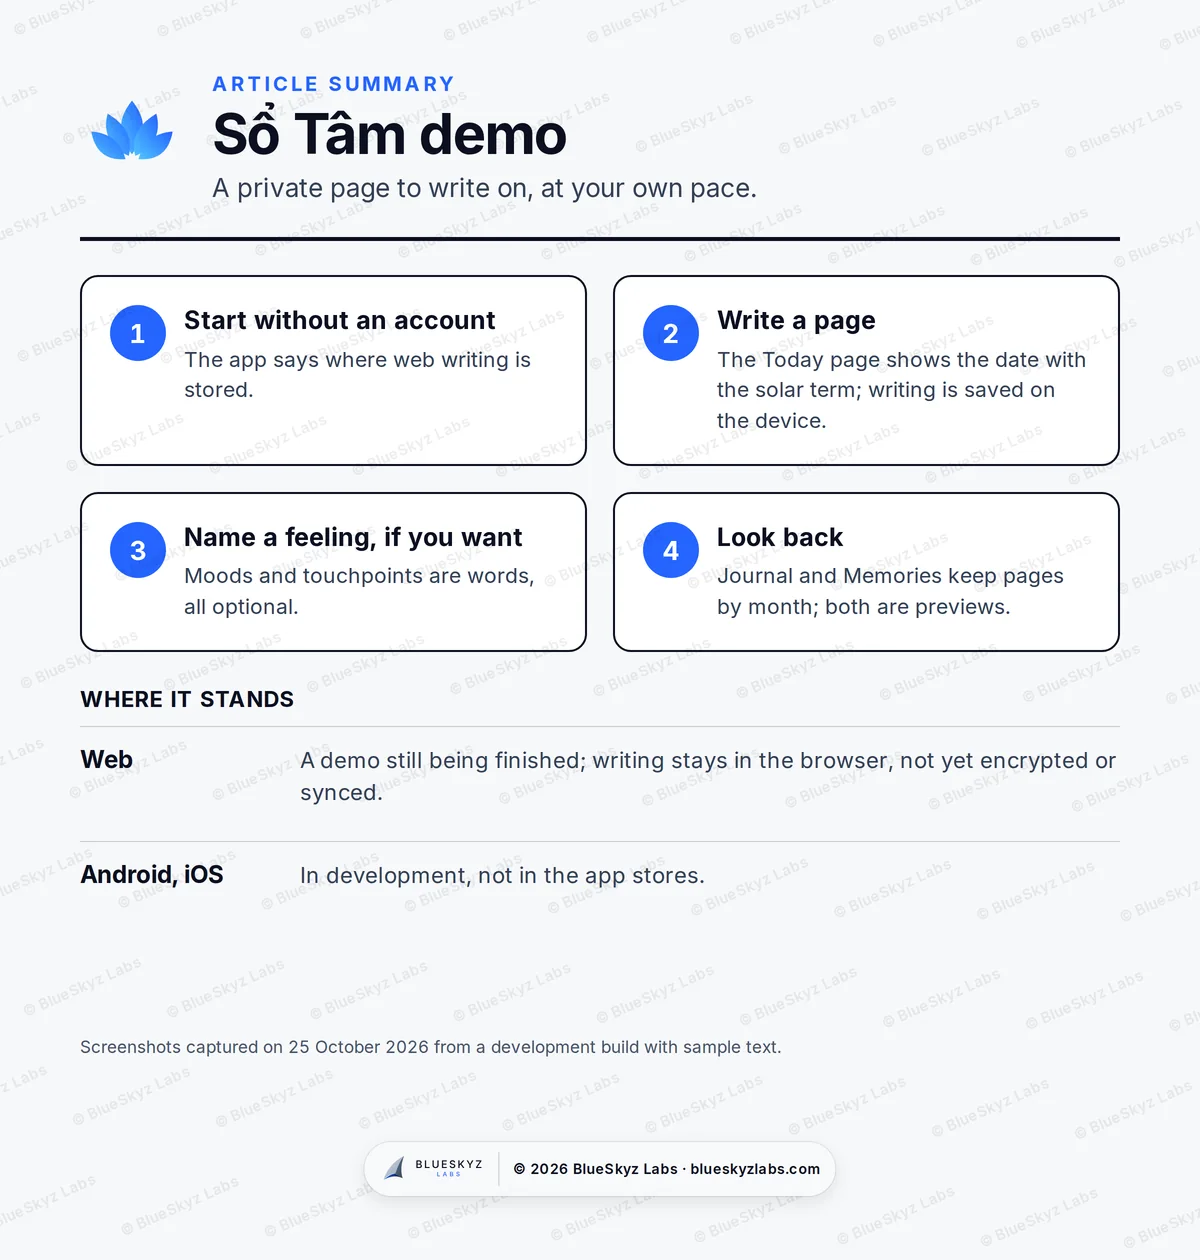
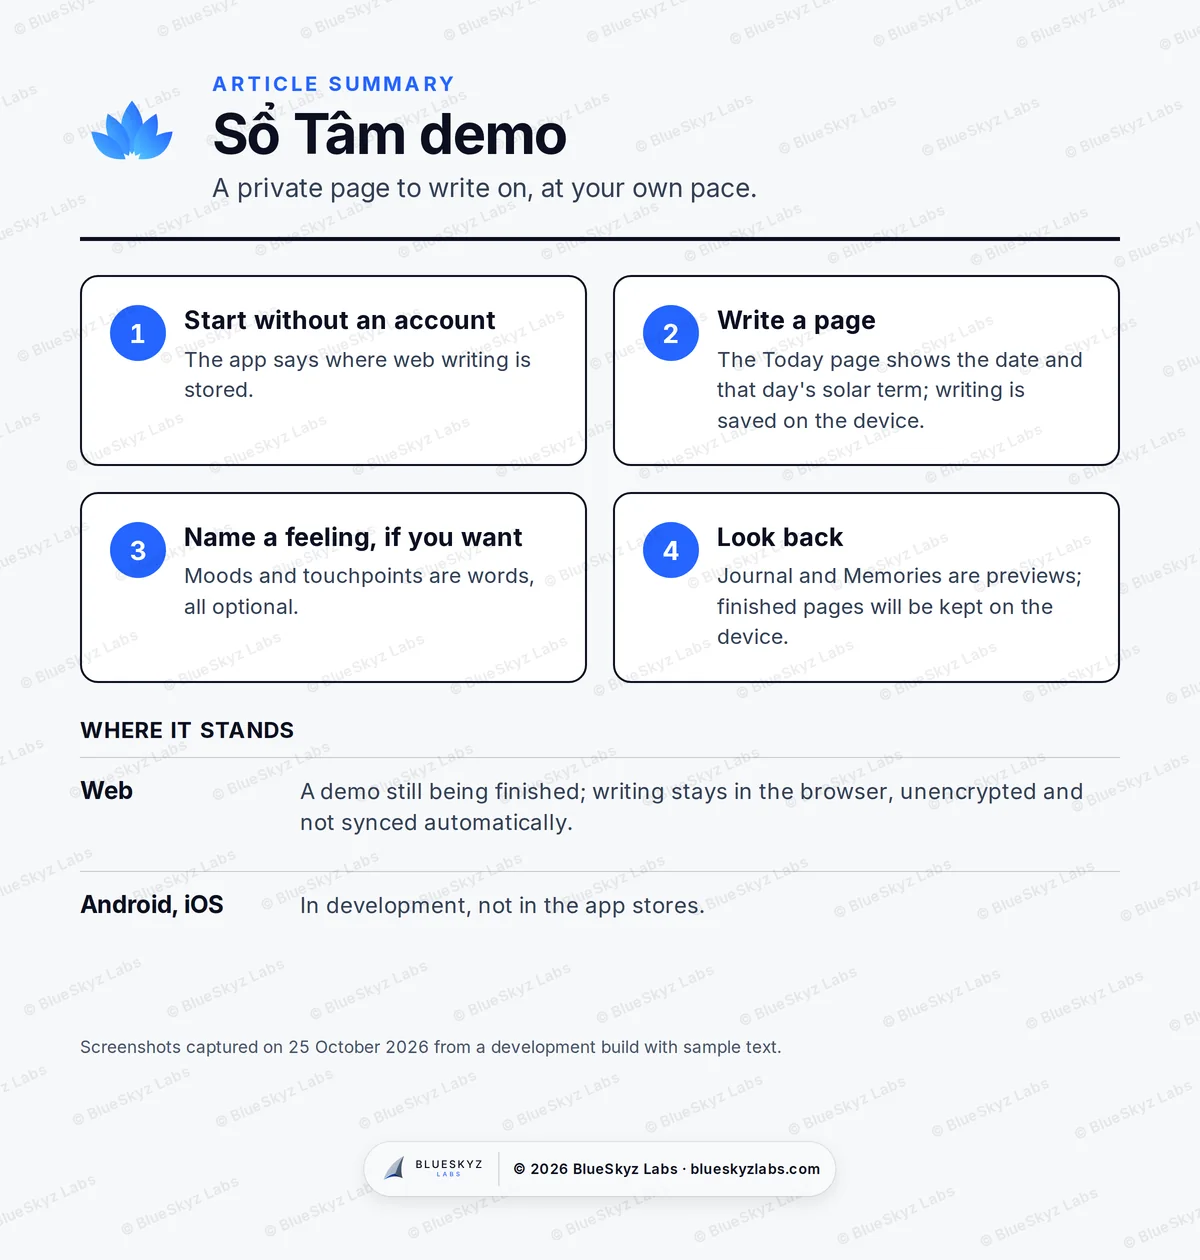
fix(journal): align so-tam-ban-demo infographic copy with copy review
Update infographic points 2 and 4 and the web status row (vi + en), re-render
art, and include the post files as they stand on disk.

Claude-Session: https://claude.ai/code/session_01SCqxvNgLgL6f3GWTLYLZNu

diff --git a/src/content/journal/so-tam-ban-demo.vi.md b/src/content/journal/so-tam-ban-demo.vi.md
@@ -3,7 +3,7 @@ id: so-tam-ban-demo
 lang: vi
 branch: news
 title: "Sổ Tâm, bản demo: một trang viết riêng, theo nhịp của bạn"
-description: "Bản demo đang hoàn thiện: Sổ Tâm là cuốn nhật ký riêng tư để viết, nhìn lại và lưu giữ điều có ý nghĩa. Tình huống minh họa qua màn hình thật."
+description: "Bản demo, đang trong giai đoạn hoàn thiện: Sổ Tâm là cuốn nhật ký riêng tư để viết, nhìn lại và lưu giữ điều có ý nghĩa. Tình huống minh họa."
 datePublished: "2026-10-25"
 author: tony-nguyen
 aiAssisted: true
@@ -16,38 +16,38 @@ hero:
   caption: "Ảnh màn hình chụp ngày 25/10/2026 từ bản đang phát triển, dùng nội dung mẫu. Bản demo, đang trong giai đoạn hoàn thiện."
 infographic:
   src: /images/journal/so-tam-ban-demo/infographic.vi.webp
-  alt: "Infographic tóm tắt: Sổ Tâm qua bốn bước (bắt đầu không cần tài khoản, viết một trang, gọi tên cảm xúc nếu muốn, nhìn lại) và hiện trạng: bản demo trên web lưu trong trình duyệt, chưa mã hóa; Android và iOS đang phát triển."
+  alt: "Infographic tóm tắt: Sổ Tâm qua bốn bước (bắt đầu không cần tài khoản, viết một trang, gọi tên cảm xúc nếu muốn, nhìn lại) và hiện trạng: bản demo trên web lưu trong trình duyệt, không mã hóa; Android và iOS đang phát triển."
 draft: false
 ---
 
-Sổ Tâm là sản phẩm của BlueSkyz Labs: một cuốn nhật ký riêng tư để viết ra suy nghĩ, nhìn lại và giữ những điều có ý nghĩa. Mục tiêu của dự án là một nơi viết yên tĩnh, không có nhịp độ nào phải theo, không có điều gì bắt buộc phải làm. Đây là bản demo, đang trong giai đoạn hoàn thiện. Bài này đi qua các màn hình thật của bản đang phát triển, chụp ngày 25/10/2026.
+Sổ Tâm là sản phẩm của BlueSkyz Labs: một cuốn nhật ký riêng tư để viết ra suy nghĩ, nhìn lại và giữ những điều có ý nghĩa. Mục tiêu của dự án là một nơi để lưu lại điều có ý nghĩa: không có nhịp độ nào phải theo, không có điều gì bạn phải làm. Đây là bản demo, đang trong giai đoạn hoàn thiện. Bài này đi qua các màn hình thật của bản đang phát triển, chụp ngày 25/10/2026.
 
-## Một tối Chủ nhật (tình huống minh họa)
+## Một ngày Chủ Nhật (tình huống minh họa)
 
-Tình huống dưới đây dùng nội dung mẫu để giới thiệu cách sản phẩm vận hành. Nhân vật không phải người dùng thật.
+Tình huống dưới đây dùng nội dung mẫu để minh họa những gì hiện ra trên màn hình. Nhân vật không phải người dùng thật.
 
-**Bắt đầu.** Một người mở Sổ Tâm trên trình duyệt điện thoại lần đầu. Thẻ chào mừng viết "Giữ điều có ý nghĩa." và nói rõ: không cần tài khoản, bản viết trên web lưu trong trình duyệt này, không mã hóa và không đồng bộ. Họ chạm **Bắt đầu**.
+**Bắt đầu.** Một người mở Sổ Tâm trên trình duyệt điện thoại lần đầu. Thẻ chào mừng viết "Giữ điều có ý nghĩa." và nói rõ: không cần tài khoản, bản viết trên web lưu trong trình duyệt này, không mã hóa và không tự đồng bộ. Người ấy chạm **Bắt đầu**.
 
-**Viết một trang.** Trang **Hôm nay** ghi ngày "Chủ Nhật, 25 tháng 10" kèm tiết khí trong năm, hôm ấy là Tiết Sương Giáng. Họ viết vài dòng vào khung viết. Bên dưới hiện nhãn **Đã lưu trên thiết bị** và số từ đã viết.
+**Viết một trang.** Trang **Hôm nay** ghi ngày "Chủ Nhật, 25 tháng 10" kèm tiết khí của ngày, hôm ấy là Tiết Sương Giáng. Người ấy viết vài dòng vào khung viết. Bên dưới hiện nhãn **Đã lưu trên thiết bị** và số từ đã viết.
 
-**Gọi tên cảm xúc, nếu muốn.** Câu hỏi "Hôm nay bạn thế nào?" ghi rõ là không bắt buộc. Tâm trạng là những từ như Nặng lòng, Xao động, Khó gọi tên, Yên, Nhẹ lòng; lần này họ chọn "Nhẹ lòng". Phần **Điểm chạm** cũng là chữ, mỗi từ có một dấu mực nhỏ: Gia đình, Công việc, Thân tâm, Tri ân, Niềm tin, Đất trời, Nghỉ ngơi. Họ chọn "Tri ân".
+**Gọi tên cảm xúc, nếu muốn.** Câu hỏi "Hôm nay bạn thế nào?" ghi rõ là không bắt buộc. Tâm trạng là những từ như Nặng lòng, Xao động, Khó gọi tên, Yên, Nhẹ lòng; lần này người ấy chọn "Nhẹ lòng". Phần **Điểm chạm** cũng chỉ là những từ, mỗi từ kèm một biểu tượng nhỏ: Gia đình, Công việc, Thân tâm, Tri ân, Niềm tin, Đất trời, Nghỉ ngơi. Người ấy chọn "Tri ân".
 
-**Nhìn lại.** Tab **Ghi chép** hiện bài đang viết dở với liên kết "tiếp →". Tab **Ký ức** còn trống, với một vòng tròn nét cọ và lời nhắn: những trang đã hoàn tất sẽ được giữ trong Ghi chép, xếp theo tháng, trên thiết bị này. Cả hai tab được ứng dụng gắn nhãn xem trước.
+**Nhìn lại.** Tab **Ghi chép** hiện bài đang viết dở với liên kết "tiếp →". Tab **Ký ức** còn trống, với một vòng tròn nét cọ và lời nhắn: những trang đã hoàn tất sẽ được giữ trong Ghi chép, xếp theo tháng, trên thiết bị này. Ứng dụng gắn nhãn "Xem trước" cho cả hai tab.
 
 **Tiếng chuông.** Trong **Cài đặt**, tiếng chuông chánh niệm đang bật. Ứng dụng ghi rõ chuông được tạo hoàn toàn trên trình duyệt, không tải tệp và không gửi gì lên mạng.
 
 ## Điểm nổi bật
 
 - **Không cần tài khoản để bắt đầu.** Mở ra là viết được; ứng dụng nói rõ bản viết trên web được lưu ở đâu.
-- **Mọi lựa chọn đều không bắt buộc.** Không có nhịp độ phải theo; tâm trạng và điểm chạm chỉ chọn khi muốn.
-- **Cảm xúc bằng chữ.** Tâm trạng và điểm chạm là từ ngữ, không phải thang điểm.
-- **Lịch theo tiết khí.** Trang Hôm nay ghi ngày kèm tiết khí trong năm.
-- **Tiếng chuông không gửi gì lên mạng.** Chuông được tạo ngay trên trình duyệt.
+- **Không có điều gì bạn phải làm.** Câu hỏi tâm trạng ghi rõ là không bắt buộc, và không có nhịp độ nào phải theo.
+- **Cảm xúc bằng chữ.** Tâm trạng và điểm chạm là những từ ngữ gần gũi.
+- **Ngày kèm tiết khí.** Trang Hôm nay ghi ngày và tiết khí của hôm đó.
+- **Tiếng chuông tạo ngay trên trình duyệt.** Ứng dụng ghi rõ chuông không tải tệp và không gửi gì lên mạng.
 
 ## Hiện trạng
 
 - Sổ Tâm đang được phát triển. Bản web là bản demo, đang trong giai đoạn hoàn thiện.
-- Trên web, bản viết lưu trong trình duyệt, chưa mã hóa và chưa đồng bộ. Ghi chép và Ký ức đang ở dạng xem trước.
+- Trên web, bản viết lưu trong trình duyệt, không mã hóa và không tự đồng bộ. Ghi chép và Ký ức đang ở dạng xem trước.
 - Ứng dụng Android và iOS đang được phát triển, chưa có trên cửa hàng ứng dụng.
 - Ảnh màn hình được chụp ngày 25/10/2026 từ bản đang phát triển, dùng nội dung mẫu, không phải nhật ký thật của ai.
 

diff --git a/src/content/journal/so-tam-ban-demo.en.md b/src/content/journal/so-tam-ban-demo.en.md
@@ -3,7 +3,7 @@ id: so-tam-ban-demo
 lang: en
 branch: news
 title: "Sổ Tâm demo: a private page to write on, at your own pace"
-description: "A demo still being finished: Sổ Tâm is a private journal for writing, looking back and keeping what matters. An illustrative scenario through real screens."
+description: "A demo, still being finished: Sổ Tâm is a private journal for writing, looking back and keeping what matters. An illustrative scenario."
 datePublished: "2026-10-25"
 author: tony-nguyen
 aiAssisted: true
@@ -16,38 +16,38 @@ hero:
   caption: "Screenshots captured on 25 October 2026 from a development build with sample text. A demo, still being finished."
 infographic:
   src: /images/journal/so-tam-ban-demo/infographic.en.webp
-  alt: "Summary infographic: Sổ Tâm in four steps (start without an account, write a page, name a feeling if you want, look back) and where it stands: a web demo stored in the browser, not yet encrypted; Android and iOS in development."
+  alt: "Summary infographic: Sổ Tâm in four steps (start without an account, write a page, name a feeling if you want, look back) and where it stands: a web demo stored in the browser, unencrypted; Android and iOS in development."
 draft: false
 ---
 
-Sổ Tâm is a BlueSkyz Labs product: a private journal for writing down your thoughts, looking back and keeping what matters. The project's goal is a quiet place to write, with no pace to keep up with and nothing you have to do. This is a demo, still being finished. This post walks through real screens of the development build, captured on 25 October 2026.
+Sổ Tâm is a BlueSkyz Labs product: a private journal for writing down your thoughts, looking back and keeping what matters. The project's goal is a place to keep what matters, with no pace to keep up with and nothing you have to do. This is a demo, still being finished. This post walks through real screens of the development build, captured on 25 October 2026.
 
-## A Sunday evening (an illustrative scenario)
+## A Sunday (an illustrative scenario)
 
-The scenario below uses sample text to show how the product works. The person in it is not a real user.
+The scenario below uses sample text to illustrate what the screens show. The person in it is not a real user.
 
-**Starting.** Someone opens Sổ Tâm in their phone's browser for the first time. The welcome card reads "Giữ điều có ý nghĩa." (keep what matters) and says plainly that no account is needed, and that on the web the writing stays in this browser, unencrypted and not synced. They tap **Bắt đầu** (start).
+**Starting.** Someone opens Sổ Tâm in their phone's browser for the first time. The welcome card reads "Giữ điều có ý nghĩa." (keep what matters) and says plainly that no account is needed, and that on the web the writing stays in this browser, unencrypted and does not sync by itself. They tap **Bắt đầu** (start).
 
-**Writing a page.** The **Today** page shows the date, "Chủ Nhật, 25 tháng 10" (Sunday, 25 October), with the solar term of the year: that day falls in Sương Giáng (frost's descent). They write a few lines in the writing area. Below it, **Đã lưu trên thiết bị** (saved on this device) appears with a word count.
+**Writing a page.** The **Hôm nay** (Today) page shows the date, "Chủ Nhật, 25 tháng 10" (Sunday, 25 October), with that day's solar term: that day falls in Sương Giáng (frost's descent). They write a few lines in the writing area. Below it, **Đã lưu trên thiết bị** (saved on this device) appears with a word count.
 
-**Naming a feeling, if they want.** The question "Hôm nay bạn thế nào?" (how are you today?) is marked optional. Moods are words such as Nặng lòng (heavy-hearted), Xao động (unsettled), Khó gọi tên (hard to name), Yên (calm) and Nhẹ lòng (light-hearted); this time they pick "Nhẹ lòng". The **touchpoints** are words too, each with a small ink mark: family, work, body and mind, gratitude, faith, nature and rest. They pick "Tri ân" (gratitude).
+**Naming a feeling, if they want.** The question "Hôm nay bạn thế nào?" (how are you today?) is marked optional. Moods are words such as Nặng lòng (heavy-hearted), Xao động (unsettled), Khó gọi tên (hard to name), Yên (calm) and Nhẹ lòng (light-hearted); this time they pick "Nhẹ lòng". The **Điểm chạm** (touchpoints) are words too, each with a small icon: family, work, body and mind, gratitude, belief, earth and sky, and rest. They pick "Tri ân" (gratitude).
 
-**Looking back.** The **Journal** tab shows the unfinished draft with a "tiếp →" (continue) link. The **Memories** tab is still empty, with a brush-stroke circle and a note that finished pages will be kept in the Journal, by month, on this device. The app labels both tabs as previews.
+**Looking back.** The **Ghi chép** (Journal) tab shows the unfinished draft with a "tiếp →" (continue) link. The **Ký ức** (Memories) tab is still empty, with a brush-stroke circle and a note that finished pages will be kept in the Journal, by month, on this device. The app labels both tabs as previews.
 
-**The bell.** In **Settings**, the mindful bell is on. The app states that the bell is generated entirely in the browser, downloads no file and sends nothing over the network.
+**The bell.** In **Cài đặt** (Settings), the mindful bell is on. The app states that the bell is generated entirely in the browser, downloads no file and sends nothing over the network.
 
 ## Highlights
 
 - **No account to start.** Open it and write; the app says where web writing is stored.
-- **Every choice is optional.** There is no pace to keep up with; mood and touchpoints are there only if you want them.
-- **Feelings in words.** Moods and touchpoints are words, not a score.
-- **A calendar with solar terms.** The Today page shows the date with the solar term of the year.
-- **A bell that sends nothing.** The bell is generated in the browser.
+- **Nothing you have to do.** The mood question is marked optional, and there is no pace to keep up with.
+- **Feelings in words.** Moods and touchpoints are everyday words.
+- **The date with its solar term.** The Today page shows the date and that day's solar term.
+- **A bell made in the browser.** The app states it downloads no file and sends nothing over the network.
 
 ## Where it stands
 
 - Sổ Tâm is in development. The web version is a demo, still being finished.
-- On the web, writing is stored in the browser, not yet encrypted or synced. Journal and Memories are previews.
+- On the web, writing is stored in the browser, unencrypted and not synced automatically. Journal and Memories are previews.
 - Android and iOS apps are in development and are not in the app stores.
 - The screenshots were captured on 25 October 2026 from a development build with sample text, not anyone's real journal.
 
